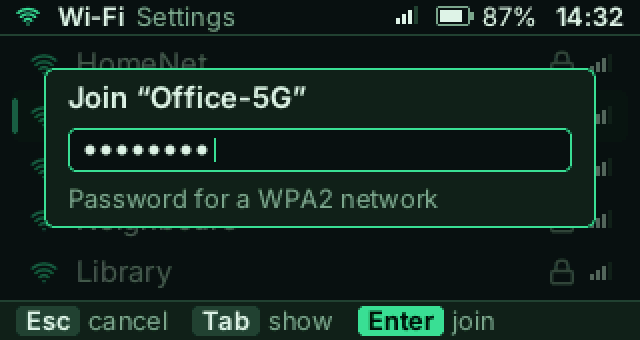
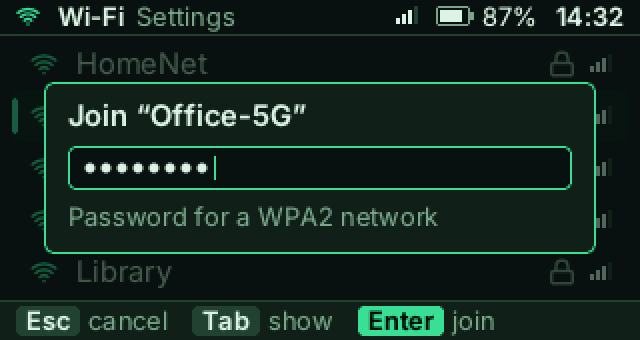
Cards: the same space above the title as below the keys
A card's height comes from what it holds (card_h): card_pad from the
edge to the title's capitals and from the body's foot to the edge,
card_gap between blocks. The switcher's Close all, the SDK's dialogs and
the mockups use it. The search icon sits a row higher.

Changed region(s): [[0.0625, 0.1765, 0.9375, 0.7059], [0.0625, 0.7059, 0.9375, 0.7647]]

diff --git a/crates/gh0st-ui/examples/design.rs b/crates/gh0st-ui/examples/design.rs
@@ -125,6 +125,19 @@ fn wrap(f: Font, s: &str, w: i32) -> Vec<String> {
     lines
 }
 
+/// A card with a question, centred over the content, keys at its foot:
+/// the same space above its title as below its keys. Returns the body.
+fn ask_card(c: &mut Canvas, t: &Theme, title: &str, edge: Color, text: &str, keys: &[(&str, &str)]) -> Rect {
+    let w = t.m.width - 44;
+    let lines = wrap(t.f.body, text, w - 24).len() as i32;
+    let h = widgets::card_h(t, lines * 18 + t.m.card_gap + t.m.pill_h);
+    let b = widgets::body(t);
+    let body = widgets::card(c, t, Rect::new(22, b.y + (b.h - h) / 2, w, h), title, edge);
+    para(c, t, body, text);
+    widgets::key_row(c, t, body.x, body.bottom() - t.m.pill_h, &hints(keys));
+    body
+}
+
 fn para(c: &mut Canvas, t: &Theme, r: Rect, text: &str) {
     for (i, line) in wrap(t.f.body, text, r.w).iter().enumerate() {
         let lr = Rect::new(r.x, r.y + i as i32 * 18, r.w, 18);
@@ -477,12 +490,15 @@ fn wifi_behind(c: &mut Canvas, t: &Theme) {
     }
 }
 
-/// Field, then a 6 px gap, a 15 px line, and 6 px again to the card's edge.
+/// A field and a line under it.
 fn join_card(c: &mut Canvas, t: &Theme) -> Rect {
     scrim(c, t);
     let title = "Join \u{201c}Office-5G\u{201d}";
-    let body = widgets::card(c, t, Rect::new(22, 34, 276, 80), title, t.c.accent);
-    let fr = Rect::new(body.x, body.y + 2, body.w, 22);
+    let h = widgets::card_h(t, 22 + t.m.card_gap + 15);
+    let b = widgets::body(t);
+    let r = Rect::new(22, b.y + (b.h - h) / 2, t.m.width - 44, h);
+    let body = widgets::card(c, t, r, title, t.c.accent);
+    let fr = Rect::new(body.x, body.y, body.w, 22);
     widgets::text_field(c, t, fr, "hunter22", true, true, "");
     fr
 }
@@ -492,7 +508,7 @@ fn dialog_typing(t: &Theme) -> Canvas {
     wifi_behind(&mut c, t);
     let fr = join_card(&mut c, t);
     let note = "Password for a WPA2 network";
-    let nr = Rect::new(fr.x, fr.bottom() + 6, fr.w, 15);
+    let nr = Rect::new(fr.x, fr.bottom() + t.m.card_gap, fr.w, 15);
     text_in(&mut c, t.f.small, nr, note, t.c.muted);
     let h = hints(&[("Esc", "cancel"), ("Tab", "show"), ("Enter", "join")]);
     widgets::hint_bar(&mut c, t, &h, Some(HELP));
@@ -503,9 +519,9 @@ fn dialog_busy(t: &Theme) -> Canvas {
     let mut c = frame(t);
     wifi_behind(&mut c, t);
     let fr = join_card(&mut c, t);
-    let nr = Rect::new(fr.x, fr.bottom() + 6, 80, 15);
+    let nr = Rect::new(fr.x, fr.bottom() + t.m.card_gap, 80, 15);
     text_in(&mut c, t.f.small, nr, "Joining\u{2026}", t.c.muted);
-    let bar = Rect::new(100, fr.bottom() + 12, 186, 3);
+    let bar = Rect::new(100, nr.y + 6, 186, 3);
     c.round_rect(bar, 1, t.c.border);
     c.round_rect(Rect::new(bar.x + 90, bar.y, 60, bar.h), 1, t.c.accent);
     widgets::action_bar(&mut c, t, &[NONE; 5]);
@@ -515,14 +531,12 @@ fn dialog_busy(t: &Theme) -> Canvas {
 fn dialog_danger(t: &Theme) -> Canvas {
     let mut c = settings(t, 0, [NONE; 5]);
     scrim(&mut c, t);
-    let r = Rect::new(22, 30, 276, 92);
-    let body = widgets::card(&mut c, t, r, "Erase everything?", t.c.critical);
     let text = "Apps, files and settings are deleted. This can't be undone.";
-    para(&mut c, t, body, text);
-    widgets::key_row(&mut c, t, body.x, body.y + 40, &hints(&[("Esc", "cancel")]));
+    let crit = t.c.critical;
+    let body = ask_card(&mut c, t, "Erase everything?", crit, text, &[("Esc", "cancel")]);
     let hint = "hold 7 to erase";
     let hx = body.right() - t.f.small.measure(hint);
-    let hr = Rect::new(hx, body.y + 40, body.w, t.m.pill_h);
+    let hr = Rect::new(hx, body.bottom() - t.m.pill_h, body.w, t.m.pill_h);
     text_in(&mut c, t.f.small, hr, hint, t.c.muted);
     let slots = [NONE, NONE, NONE, l("trash-2", "Erase", Look::Hold(40)), NONE];
     widgets::action_bar(&mut c, t, &slots);
@@ -532,11 +546,9 @@ fn dialog_danger(t: &Theme) -> Canvas {
 fn dialog_three(t: &Theme) -> Canvas {
     let mut c = notes_first(t);
     scrim(&mut c, t);
-    let r = Rect::new(22, 30, 276, 92);
-    let body = widgets::card(&mut c, t, r, "Save changes?", t.c.accent);
-    para(&mut c, t, body, "Packing list has edits you haven't saved.");
-    let h = hints(&[("Esc", "cancel"), ("Enter", "save")]);
-    widgets::key_row(&mut c, t, body.x, body.y + 40, &h);
+    let text = "Packing list has edits you haven't saved.";
+    let keys = [("Esc", "cancel"), ("Enter", "save")];
+    ask_card(&mut c, t, "Save changes?", t.c.accent, text, &keys);
     let slots = [NONE, NONE, l("trash-2", "Discard", Look::Danger), NONE, NONE];
     widgets::action_bar(&mut c, t, &slots);
     c
@@ -901,11 +913,9 @@ fn switcher(t: &Theme) -> Canvas {
 fn close_all(t: &Theme) -> Canvas {
     let mut c = switcher_base(t);
     scrim(&mut c, t);
-    let r = Rect::new(22, 30, 276, 92);
-    let body = widgets::card(&mut c, t, r, "Close all apps?", t.c.critical);
-    para(&mut c, t, body, "Terminal and Settings close. Work you haven't saved is lost.");
-    let h = hints(&[("Esc", "cancel"), ("Enter", "close all")]);
-    widgets::key_row(&mut c, t, body.x, body.y + 40, &h);
+    let text = "Terminal and Settings close. Work you haven't saved is lost.";
+    let keys = [("Esc", "cancel"), ("Enter", "close all")];
+    ask_card(&mut c, t, "Close all apps?", t.c.critical, text, &keys);
     widgets::action_bar(&mut c, t, &[NONE; 5]);
     c
 }

diff --git a/crates/gh0st-app/src/dialog.rs b/crates/gh0st-app/src/dialog.rs
@@ -220,18 +220,22 @@ impl Dialog {
         } else {
             wrap(t, &self.line, w - 24)
         };
-        let field_h = if self.field.is_some() { 22 + 6 } else { 0 };
-        // The keys line goes in the card unless a field has the hint bar.
-        let keys_h = if self.field.is_some() { 0 } else { t.m.pill_h + 6 };
         let lines_h = lines.len().min(3) as i32 * 18;
-        let h = 6 + 18 + 4 + field_h + lines_h + keys_h + 6;
+        // The blocks, top to bottom: a field, text, and, unless a field has
+        // the hint bar, the keys.
+        let field_h = if self.field.is_some() { 22 } else { 0 };
+        let keys_h = if self.field.is_some() { 0 } else { t.m.pill_h };
+        let blocks = [field_h, lines_h, keys_h];
+        let gaps = blocks.iter().filter(|&&b| b > 0).count().saturating_sub(1) as i32;
+        let body_h = blocks.iter().sum::<i32>() + gaps * t.m.card_gap;
+        let h = widgets::card_h(t, body_h);
         let r = Rect::new(22, area.y + (area.h - h).max(0) / 2, w, h);
         let body = widgets::card(c, t, r, &self.title, edge);
         let mut y = body.y;
         if let Some(f) = &self.field {
-            let fr = Rect::new(body.x, y + 2, body.w, 22);
+            let fr = Rect::new(body.x, y, body.w, 22);
             widgets::text_field(c, t, fr, &f.text, f.masked, true, &f.placeholder);
-            y = fr.bottom() + 6;
+            y = fr.bottom() + t.m.card_gap;
         }
         let ink = if self.field.is_some() { t.c.muted } else { t.c.soft() };
         let font = if self.field.is_some() { t.f.small } else { t.f.body };
@@ -240,7 +244,7 @@ impl Dialog {
             y += 18;
         }
         if self.field.is_none() {
-            let y = r.bottom() - 6 - t.m.pill_h;
+            let y = body.bottom() - t.m.pill_h;
             let mut hints = vec![Hint {
                 key: "Esc",
                 label: &self.no,

diff --git a/crates/gh0st-ui/src/widgets.rs b/crates/gh0st-ui/src/widgets.rs
@@ -624,7 +624,7 @@ pub fn search_bar(c: &mut Canvas, t: &Theme, query: &str) {
     // Centred on the query's capitals, as a chip's icon is on its word.
     let s = IconSize::Small as i32;
     let cap_top = r.y + 1 + (r.h - 1 - t.f.body.cap()) / 2;
-    let iy = cap_top + t.f.body.cap() / 2 - s / 2 + 1;
+    let iy = cap_top + t.f.body.cap() / 2 - s / 2;
     icon::draw(c, "search", IconSize::Small, x, iy, t.c.accent);
     let tx = x + s + 6;
     let right = r.right() - t.m.pad;
@@ -1220,14 +1220,23 @@ pub fn scrim(c: &mut Canvas, t: &Theme, r: Rect) {
 pub fn card(c: &mut Canvas, t: &Theme, r: Rect, title: &str, edge: Color) -> Rect {
     c.round_rect(r, t.m.radius_large, t.c.surface);
     c.stroke_round_rect(r, t.m.radius_large, edge);
-    let head = Rect::new(r.x + 12, r.y + 6, r.w - 24, 18);
+    let head = card_head(t, r);
     text_in(c, t.f.body_bold, head, title, t.c.fg);
-    Rect::new(
-        r.x + 12,
-        head.bottom() + 4,
-        r.w - 24,
-        r.bottom() - head.bottom() - 10,
-    )
+    let y = head.bottom() + t.m.card_gap;
+    Rect::new(r.x + 12, y, r.w - 24, r.bottom() - 1 - t.m.card_pad - y)
+}
+
+/// The title's line, placed so its capitals start `card_pad` below the edge.
+fn card_head(t: &Theme, r: Rect) -> Rect {
+    let lead = (18 - t.f.body_bold.cap()) / 2;
+    Rect::new(r.x + 12, r.y + 1 + t.m.card_pad - lead, r.w - 24, 18)
+}
+
+/// How tall a card is for a body `body_h` high: the same space from the
+/// edge to the title's capitals as from the body's foot to the edge.
+pub fn card_h(t: &Theme, body_h: i32) -> i32 {
+    let lead = (18 - t.f.body_bold.cap()) / 2;
+    1 + t.m.card_pad - lead + 18 + t.m.card_gap + body_h + t.m.card_pad + 1
 }
 
 /// A short line in a card that floats above `bottom`, with its tone's icon.

diff --git a/crates/gh0st-shell/src/run.rs b/crates/gh0st-shell/src/run.rs
@@ -970,10 +970,14 @@ impl Shell {
         } else {
             format!("{n} apps close. Work they haven't saved is lost.")
         };
-        let r = Rect::new(22, 30, t.m.width - 44, 92);
+        let w = t.m.width - 44;
+        let lines = wrap_words(t.f.body, &line, w - 24);
+        let body_h = lines.len() as i32 * 18 + t.m.card_gap + t.m.pill_h;
+        let h = widgets::card_h(&t, body_h);
+        let r = Rect::new(22, body.y + (body.h - h) / 2, w, h);
         let inner = widgets::card(c, &t, r, "Close all apps?", t.c.critical);
         let mut y = inner.y;
-        for l in wrap_words(t.f.body, &line, inner.w) {
+        for l in lines {
             widgets::text_in(c, t.f.body, Rect::new(inner.x, y, inner.w, 18), &l, t.c.soft());
             y += 18;
         }
@@ -987,7 +991,7 @@ impl Shell {
                 label: "close all",
             },
         ];
-        widgets::key_row(c, &t, inner.x, r.bottom() - 6 - t.m.pill_h, &hints);
+        widgets::key_row(c, &t, inner.x, inner.bottom() - t.m.pill_h, &hints);
         let none = widgets::Chip::default();
         widgets::action_bar(c, &t, &[none; 5]);
     }

diff --git a/crates/gh0st-ui/src/theme.rs b/crates/gh0st-ui/src/theme.rs
@@ -135,6 +135,10 @@ pub struct Metrics {
     /// A key pill in the hint bar, a card or a message.
     pub pill_h: i32,
     pub toast_h: i32,
+    /// A card's space from its edge to the ink, top and bottom, and between
+    /// its blocks: title, text, field, keys.
+    pub card_pad: i32,
+    pub card_gap: i32,
 }
 
 #[derive(Clone, Copy)]
@@ -463,6 +467,8 @@ pub const CARDPUTER: Metrics = Metrics {
     chip_pad_min: 4,
     pill_h: 15,
     toast_h: 20,
+    card_pad: 10,
+    card_gap: 6,
 };
 
 /// How far dim terminal text fades toward its background, of 255.
